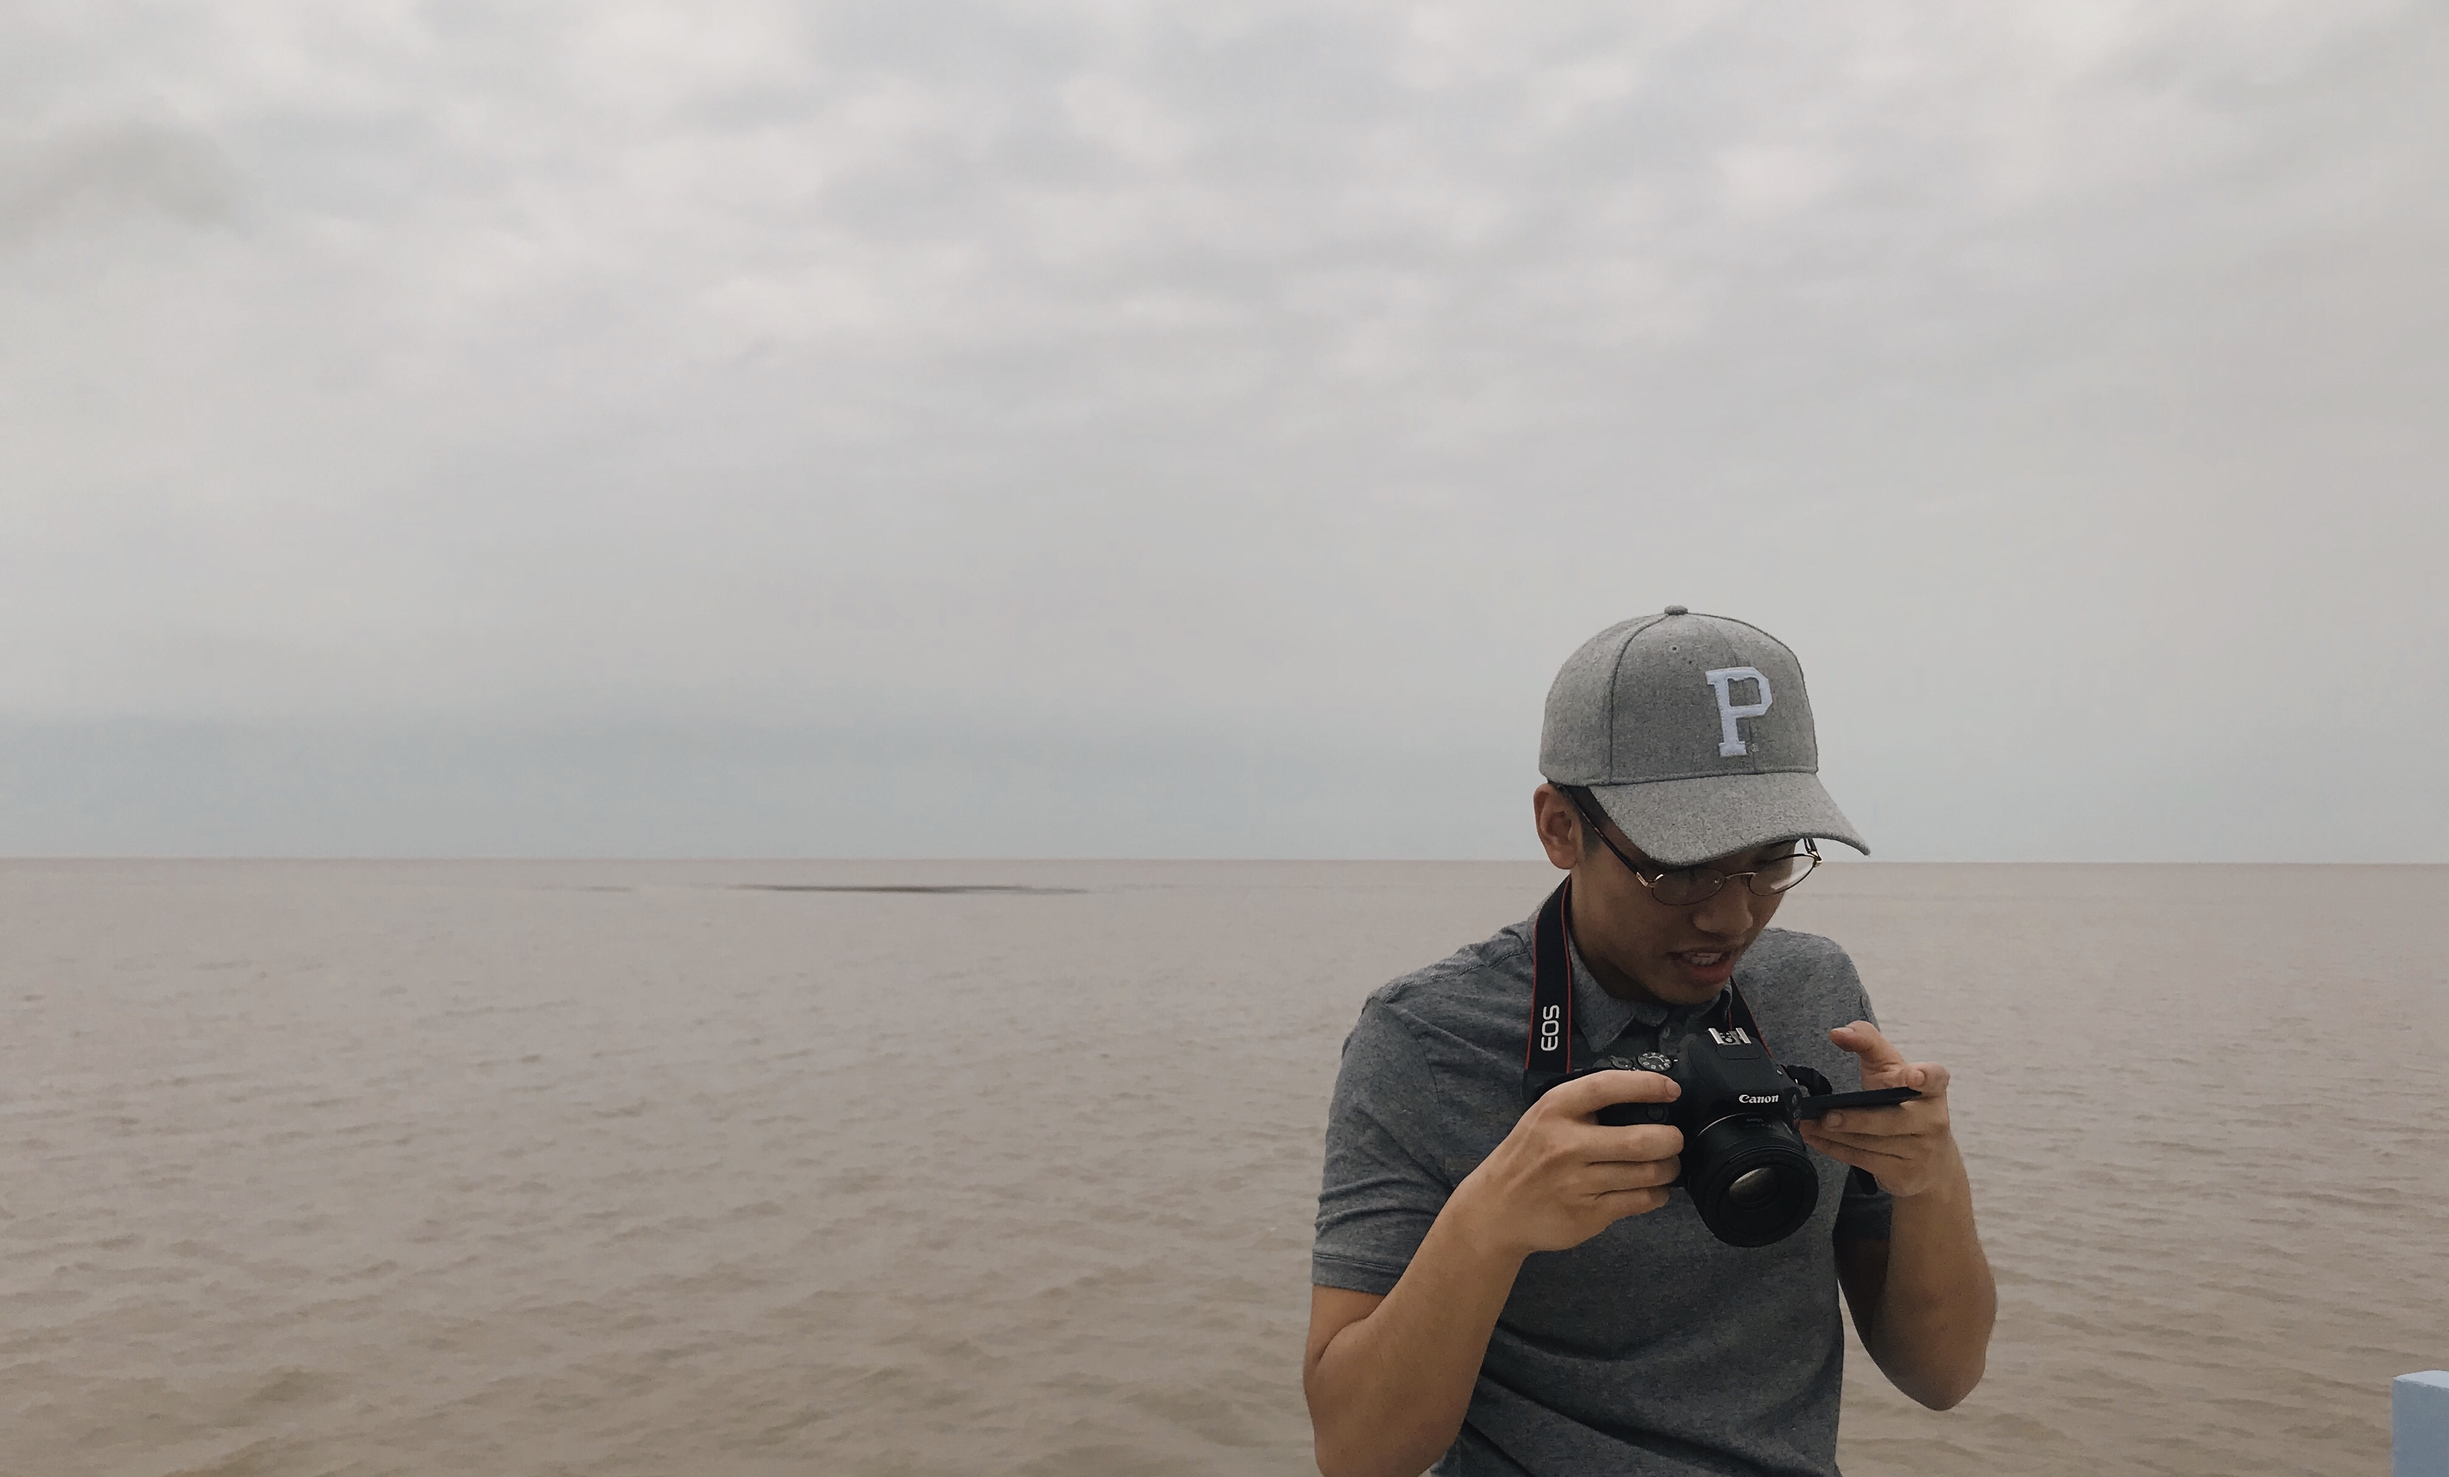
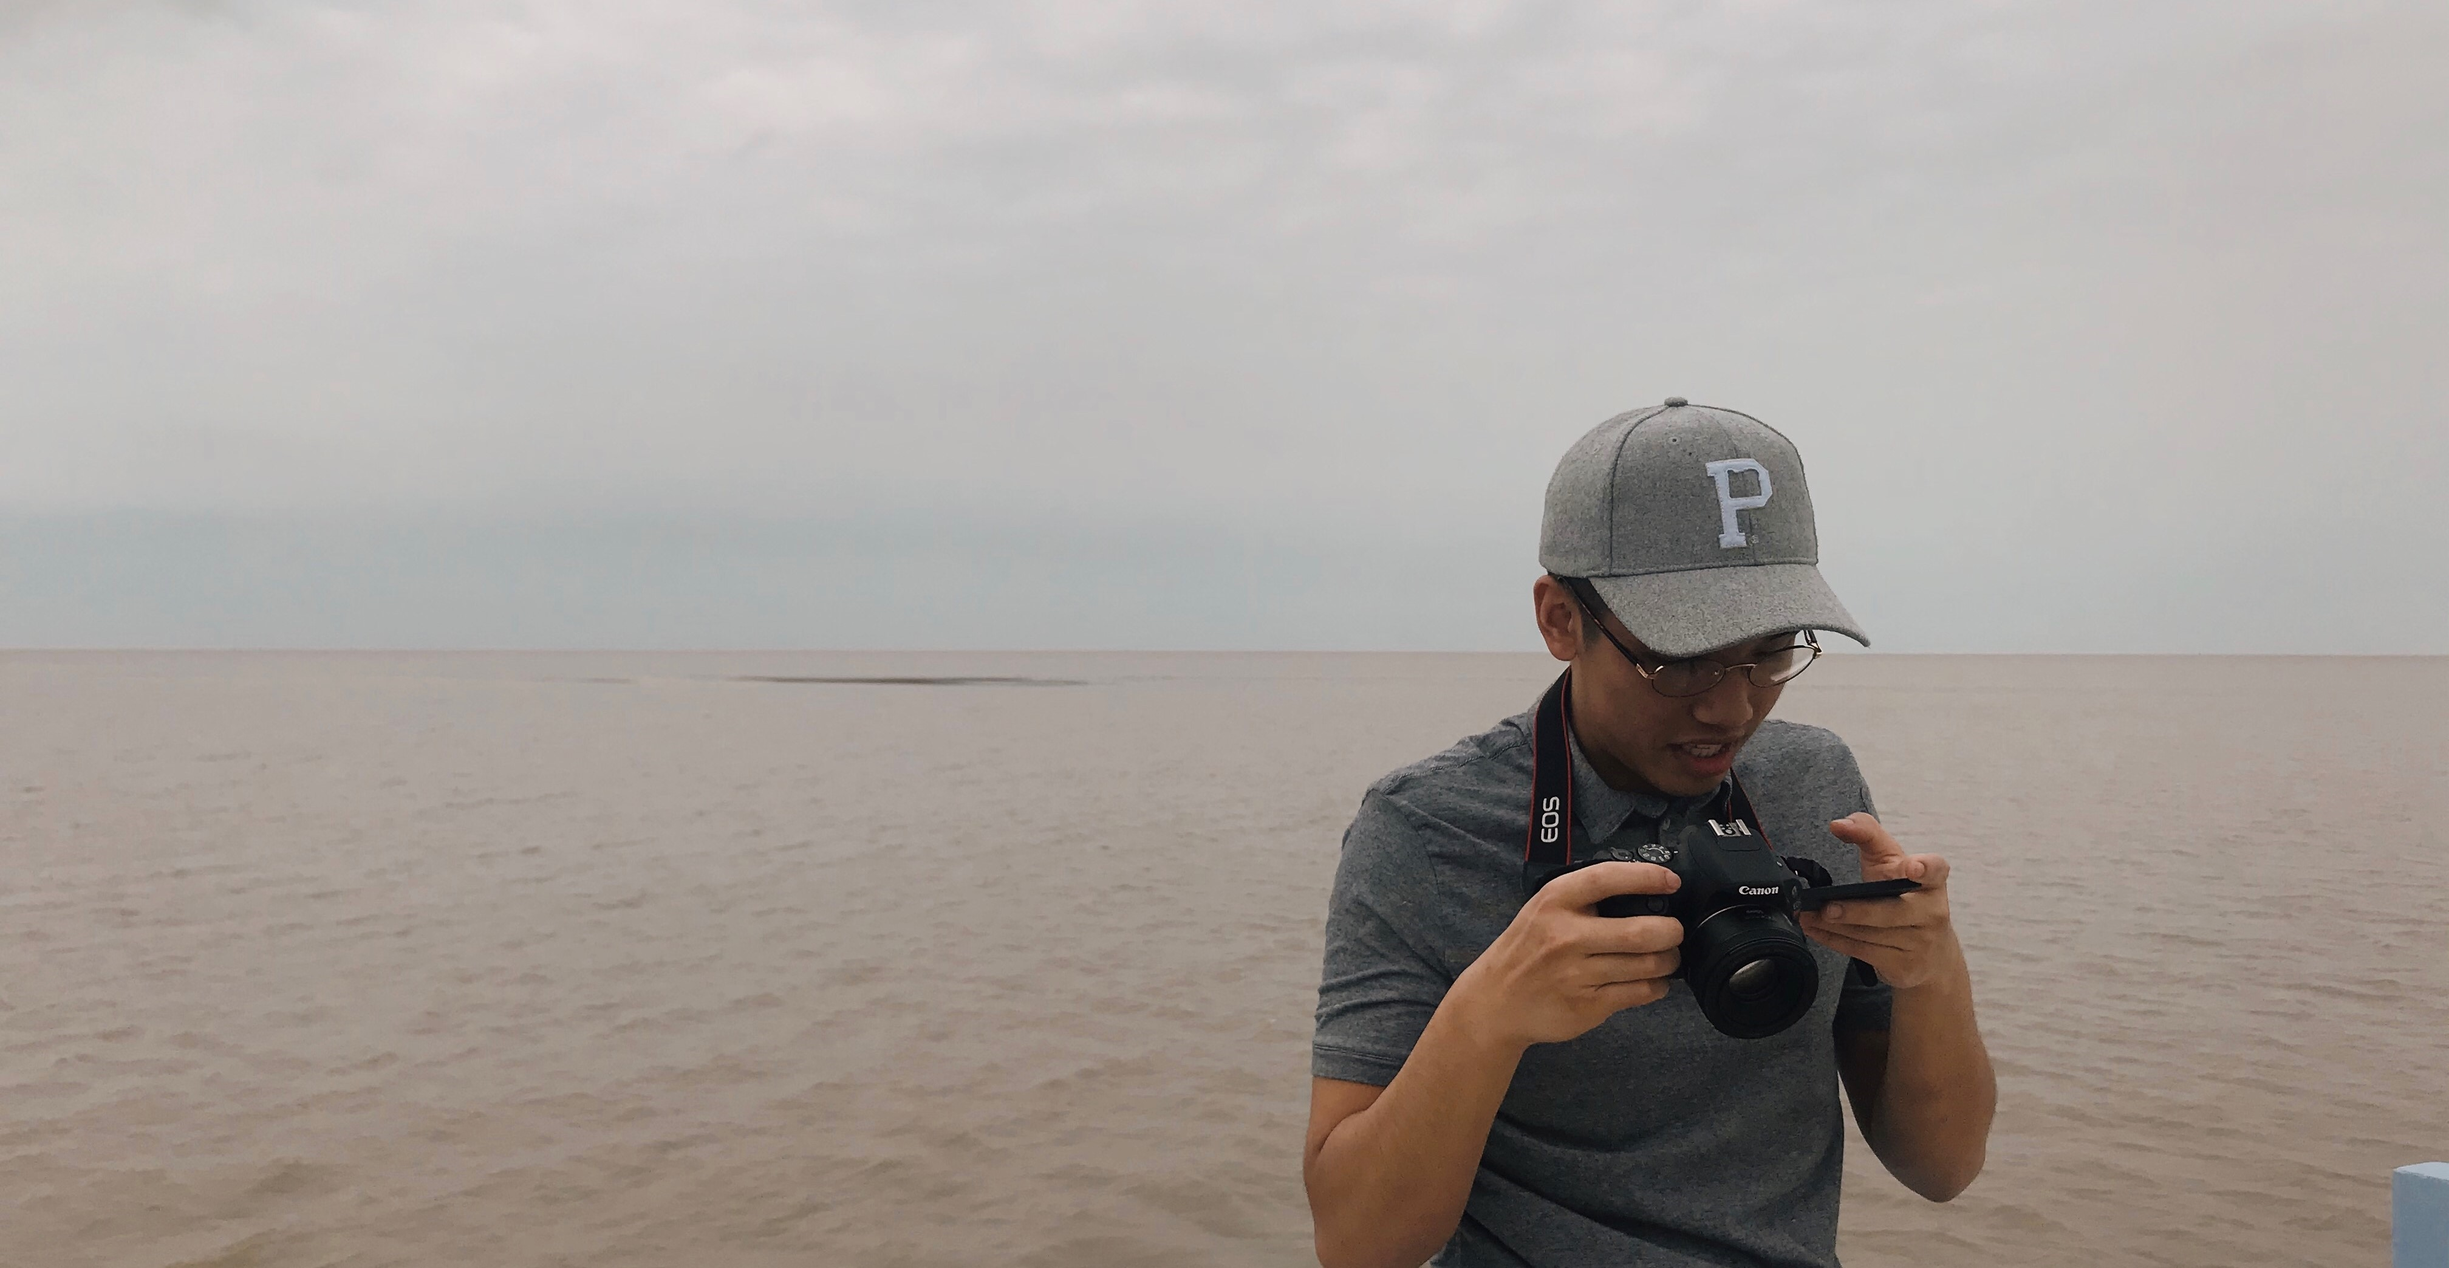
Minor changes to style and renaming of sections/files

diff --git a/index.html b/index.html
@@ -54,7 +54,7 @@
               <a href="#about-me" class="nav-link">About</a>
             </li>
             <li lass="nav-item">
-              <a href="#previous-work" class="nav-link">Previous Work</a>
+              <a href="#resume" class="nav-link">Resume</a>
             </li>
             <li lass="nav-item"><a href="#" class="nav-link">Projects</a></li>
             <li lass="nav-item">
@@ -68,7 +68,7 @@
     <!--Hero Section-->
     <div class="hero-section">
       <img
-        src="./resources/images/hali_banner.JPG"
+        src="./resources/images/hali_banner.jpg"
         alt="Hali staring at his DSLR camera with the sea in the background"
         class="banner-img img-fluid"
       />
@@ -111,18 +111,18 @@
     </div>
 
     <!--Previous Work-->
-    <div id="previous-work" class="work-banner">
+    <div id="resume" class="resume-banner">
       <img
-        src="./resources/images/hali-work.jpg"
+        src="./resources/images/hali-resume.jpg"
         alt="Hali doing a weird pose and laughing while two other people staring at him"
-        class="work-banner-img img-fluid"
+        class="resume-banner-img img-fluid"
       />
-      <h2 class="text-center">Previous Work</h2>
+      <h2 class="text-center">Resume</h2>
     </div>
 
     <!--Contact Me Form-->
     <div id="contact-me" class="container mt-5">
-      <!--Maybe add title 'Contact Us'-->
+      <!--MAYBE ADD TITLE 'Contact Us'-->
       <form action="" class="border bg-light p-4 rounded w-75 m-auto">
         <div class="mb-4">
           <label for="name" class="form-label">Name: </label>

diff --git a/resources/css/style.css b/resources/css/style.css
@@ -14,24 +14,26 @@
 }
 
 .banner-img,
-.work-banner-img {
+.resume-banner-img {
   filter: blur(3px);
 }
 
 .hero-section h1 {
   position: relative;
-  bottom: 35vw;
+  bottom: 30vw;
   font-size: 3.5vw;
+  color: black;
 }
 
-.work-banner {
-  margin-top: 8vw;
+.resume-banner {
+  margin-top: 9vw;
 }
 
-.work-banner h2 {
+.resume-banner h2 {
   position: relative;
   bottom: 10vw;
   font-size: 6vw;
+  color: black;
 }
 
 #about-me p {
